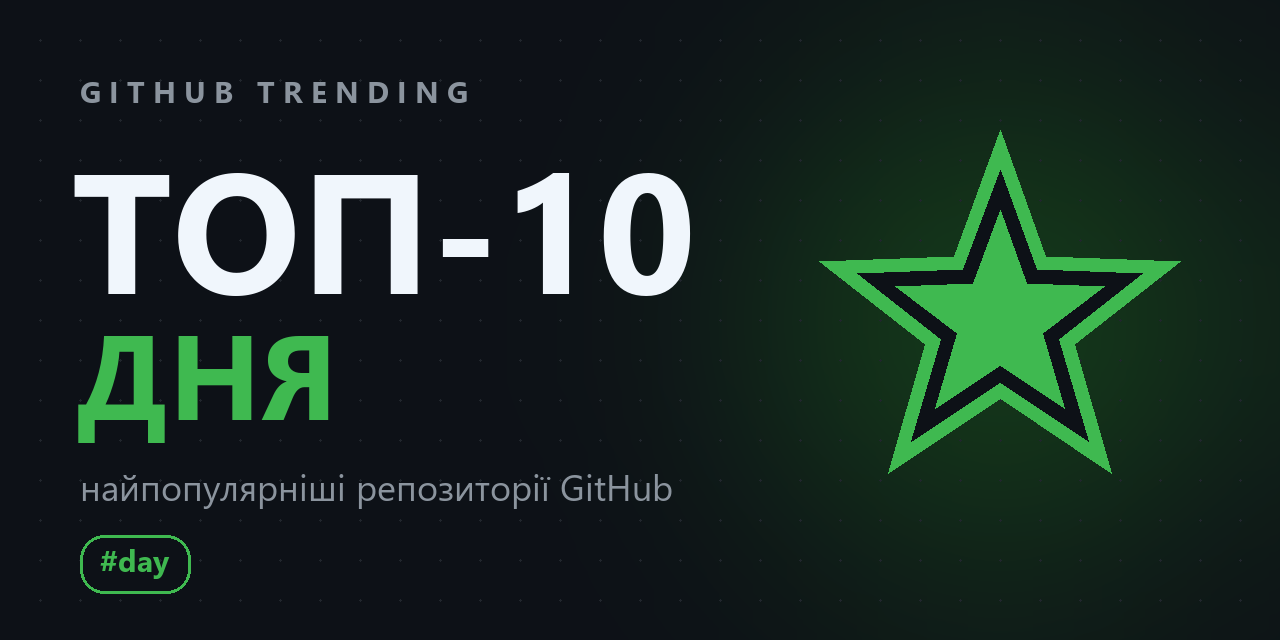
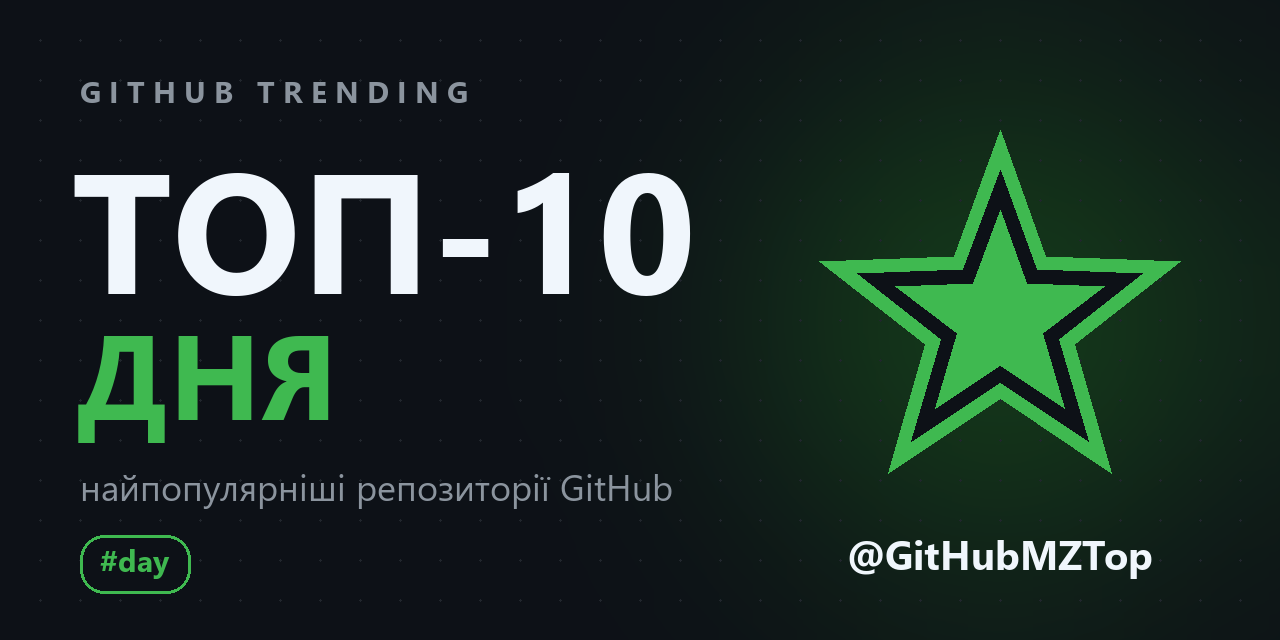
feat: show the channel name on the header images

Changed region(s): [[0.6562, 0.8438, 0.9062, 0.9062]]

diff --git a/assets/make_banners.py b/assets/make_banners.py
@@ -1,9 +1,10 @@
 """Draws the header images day.png, week.png and month.png next to this file.
 
-    python assets/make_banners.py [--bold FONT.ttf] [--regular FONT.ttf]
+    python assets/make_banners.py [--channel @name] [--bold FONT.ttf] [--regular FONT.ttf]
 
 The bot does not run this: the PNGs are committed and Telegram downloads them
-from IMAGES_URL. Replace them with your own under the same names if you like.
+from IMAGES_URL. Replace them with your own under the same names if you like,
+and bump IMAGES_VERSION in services/digest.py: Telegram caches previews by URL.
 """
 import argparse
 import math
@@ -16,6 +17,7 @@ WIDTH, HEIGHT = 1280, 640
 BACKGROUND = (13, 17, 23)
 TEXT = (240, 246, 252)
 MUTED = (139, 148, 158)
+CHANNEL = "@GitHubMZTop"
 
 BANNERS = {
     "day": ("ДНЯ", (63, 185, 80)),
@@ -44,7 +46,7 @@ def star(cx: float, cy: float, outer: float, inner: float) -> list[tuple[float, 
     return points
 
 
-def draw(key: str, word: str, accent: tuple[int, int, int], bold: str, regular: str) -> Image.Image:
+def draw(key: str, word: str, accent: tuple[int, int, int], channel: str, bold: str, regular: str) -> Image.Image:
     image = Image.new("RGB", (WIDTH, HEIGHT), BACKGROUND)
 
     # Soft glow behind the star
@@ -76,11 +78,17 @@ def draw(key: str, word: str, accent: tuple[int, int, int], bold: str, regular: 
     left, top, right, bottom = canvas.textbbox((0, 0), hashtag, font=small)
     canvas.rounded_rectangle((80, 535, 80 + right - left + 40, 535 + bottom - top + 28), radius=24, outline=accent, width=3)
     canvas.text((100 - left, 549 - top), hashtag, font=small, fill=accent)
+
+    # Channel name centred under the star, on the line of the hashtag
+    channel_font = ImageFont.truetype(bold, 40)
+    left, top, right, bottom = canvas.textbbox((0, 0), channel, font=channel_font)
+    canvas.text((1000 - (right - left) / 2 - left, 560 - (bottom - top) / 2 - top), channel, font=channel_font, fill=TEXT)
     return image
 
 
 def main() -> None:
     parser = argparse.ArgumentParser(description=__doc__.splitlines()[0])
+    parser.add_argument("--channel", default=CHANNEL)
     parser.add_argument("--bold", default=None)
     parser.add_argument("--regular", default=None)
     args = parser.parse_args()
@@ -88,7 +96,7 @@ def main() -> None:
     regular = args.regular or find_font(REGULAR_FONTS)
     for key, (word, accent) in BANNERS.items():
         path = HERE / f"{key}.png"
-        draw(key, word, accent, bold, regular).save(path, optimize=True)
+        draw(key, word, accent, args.channel, bold, regular).save(path, optimize=True)
         print(path)
 
 

diff --git a/tests/test_digest.py b/tests/test_digest.py
@@ -1,6 +1,7 @@
 from aiogram.exceptions import TelegramBadRequest, TelegramNetworkError, TelegramRetryAfter
 from aiogram.methods import SendMessage
 
+from services.digest import IMAGES_VERSION
 from tests.conftest import at, repo
 
 METHOD = SendMessage(chat_id=1, text="x")
@@ -17,7 +18,7 @@ async def test_due_post_goes_out_once(make_service, publisher):
     # Friday 30.10 06:01: only the daily top is due
     assert hashtags(publisher) == ["#day"]
     text, image = publisher.posts[0]
-    assert image == "https://img.example/day.png"
+    assert image == f"https://img.example/day.png?v={IMAGES_VERSION}"
     assert "📅 30.10.2026" in text
     run = await service.db.get_run("day:2026-10-30")
     assert run.status == "posted" and run.message_id == 101
@@ -52,7 +53,7 @@ async def test_sunday_the_first_posts_all_three_in_order(make_service, publisher
     await make_service().run_due()
     assert hashtags(publisher) == ["#day", "#week", "#month"]
     assert [image for _, image in publisher.posts] == [
-        "https://img.example/day.png", "https://img.example/week.png", "https://img.example/month.png",
+        f"https://img.example/{key}.png?v={IMAGES_VERSION}" for key in ("day", "week", "month")
     ]
     assert "📅 Жовтень 2026" in publisher.posts[2][0]
 

diff --git a/services/digest.py b/services/digest.py
@@ -28,6 +28,9 @@ REFUSED = (TelegramBadRequest, TelegramForbiddenError, TelegramUnauthorizedError
 # Seconds between schedule checks; a check is one SQLite read per period
 TICK = 30
 RETRY_AFTER = timedelta(minutes=15)
+# Telegram caches link previews by URL, so a redrawn header under the same file
+# name would keep showing the old picture: bump this whenever assets/*.png change
+IMAGES_VERSION = 2
 
 
 class NoTop(RuntimeError):
@@ -94,7 +97,7 @@ class DigestService:
         return self.clock().astimezone(self.tz)
 
     def image_url(self, key: str) -> str:
-        return f"{self.images_url}/{key}.png" if self.images_url else ""
+        return f"{self.images_url}/{key}.png?v={IMAGES_VERSION}" if self.images_url else ""
 
     async def paused(self) -> bool:
         return await self.db.get_setting("paused") == "1"

diff --git a/CLAUDE.md b/CLAUDE.md
@@ -80,7 +80,7 @@ Dockerfile, docker-compose.yml, deploy.sh
 ## 6. Пастки, про які треба знати наперед
 
 - **Дублі.** `unknown` ніколи не надсилається повторно автоматично: після тайм-ауту чи обриву пост може вже бути в каналі. Повтор лише після явної відмови Telegram (`REFUSED` у `services/digest.py`) або `RetryAfter`. Бот, вбитий посеред надсилання, лишає `posting`, і `recover()` при старті робить з нього `unknown`. Адмін вирішує через `/post`.
-- **Картинка через прев'ю, не через фото.** Підпис до фото обмежений 1024 символами, а топ з описами займає ~2000. Тому пост є звичайним повідомленням (4096), а шапка йде як `LinkPreviewOptions(url=..., show_above_text=True, prefer_large_media=True)`. URL має бути доступний Telegram ззовні (типово raw.githubusercontent.com цього репо, тому репо публічне). Telegram кешує прев'ю за URL: замінивши картинку, змінюй назву файлу або додай `?v=2` до `IMAGES_URL`.
+- **Картинка через прев'ю, не через фото.** Підпис до фото обмежений 1024 символами, а топ з описами займає ~2000. Тому пост є звичайним повідомленням (4096), а шапка йде як `LinkPreviewOptions(url=..., show_above_text=True, prefer_large_media=True)`. URL має бути доступний Telegram ззовні (типово raw.githubusercontent.com цього репо, тому репо публічне). Telegram кешує прев'ю за URL, тому до адреси додається `?v=IMAGES_VERSION` (`services/digest.py`): перемалювавши `assets/*.png`, збільш `IMAGES_VERSION`, інакше в постах лишиться стара картинка. Картинки малює `assets/make_banners.py` (на них назва каналу `@GitHubMZTop`, `--channel` для іншої).
 - **`is_disabled=False` у `LinkPreviewOptions` обов'язковий.** В aiogram кожне незаповнене поле `LinkPreviewOptions` бере значення з `DefaultBotProperties`, а `create_bot()` вимикає прев'ю (`link_preview_is_disabled=True`), щоб повідомлення адміну не обростали прев'ю. Без явного `is_disabled=False` Telegram отримував URL картинки разом з `"is_disabled": true`, і пости (і в канал, і `/test`/`/preview`) виходили без шапки. `tests/test_publisher.py` перевіряє, що саме йде в Telegram.
 - **OSS Insight не працює.** Їхній `/v1/trends/repos` з березня 2026 віддає порожньо (`data_quality.status: unavailable`), тому як запасне джерело він не годиться. Запасне джерело: `/search/repositories?q=created:>=...&sort=stars`, це інша метрика (нові репо, усього зірок, без «+N за період»), тому `stars_gained=None`, і формат прибирає «+N».
 - **Порядок trending.** GitHub сортує сторінку за власною оцінкою, а не за «stars today». `fetch()` пересортовує за `stars_gained`, щоб номер у пості відповідав числу поруч.

diff --git a/README.md b/README.md
@@ -87,7 +87,7 @@ cp .env.example .env                             # заповнити
 .venv/bin/python -m pytest
 ```
 
-Картинки-шапки перемалювати: `python assets/make_banners.py`. Або поклади свої 1280×640 з тими самими назвами `assets/day.png`, `week.png`, `month.png`.
+Картинки-шапки перемалювати: `python assets/make_banners.py` (назва каналу на них: `--channel @name`, типово `@GitHubMZTop`). Або поклади свої 1280×640 з тими самими назвами `assets/day.png`, `week.png`, `month.png`. Після заміни збільш `IMAGES_VERSION` у `services/digest.py`: Telegram кешує прев'ю за адресою і без цього показував би старі картинки.
 
 ## Ліцензія
 
